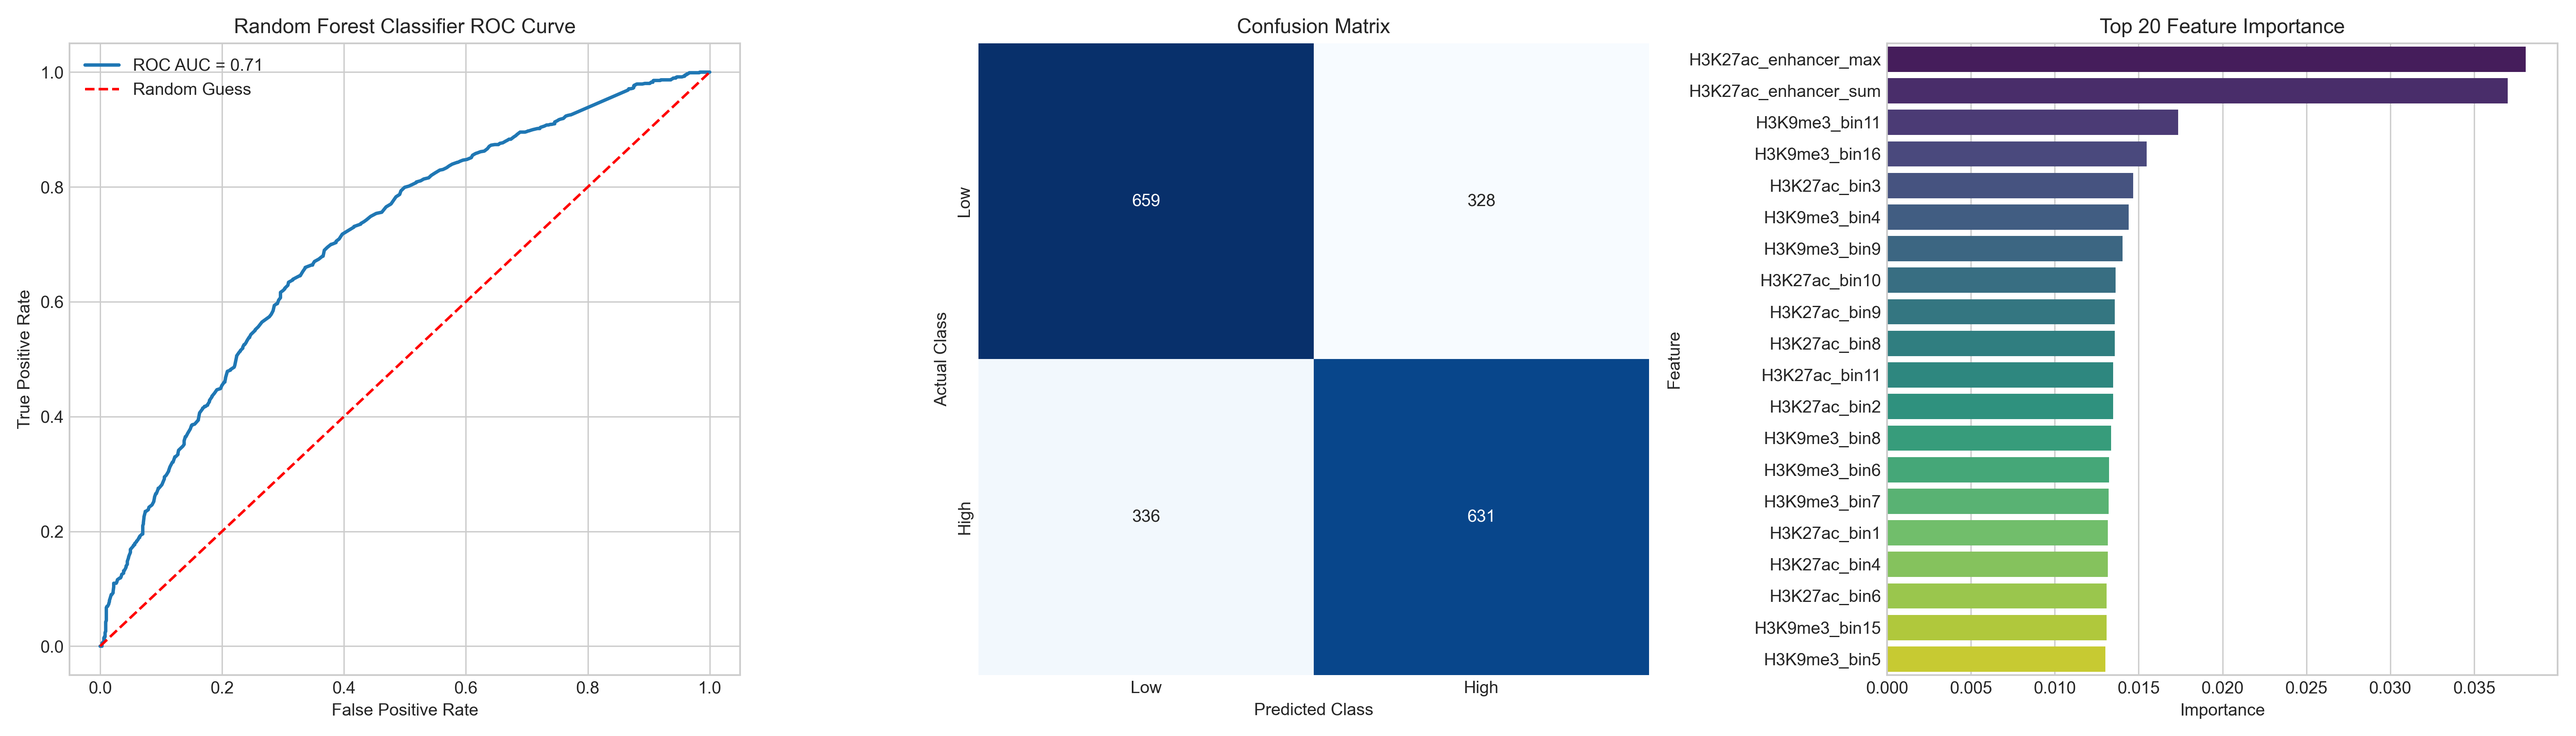
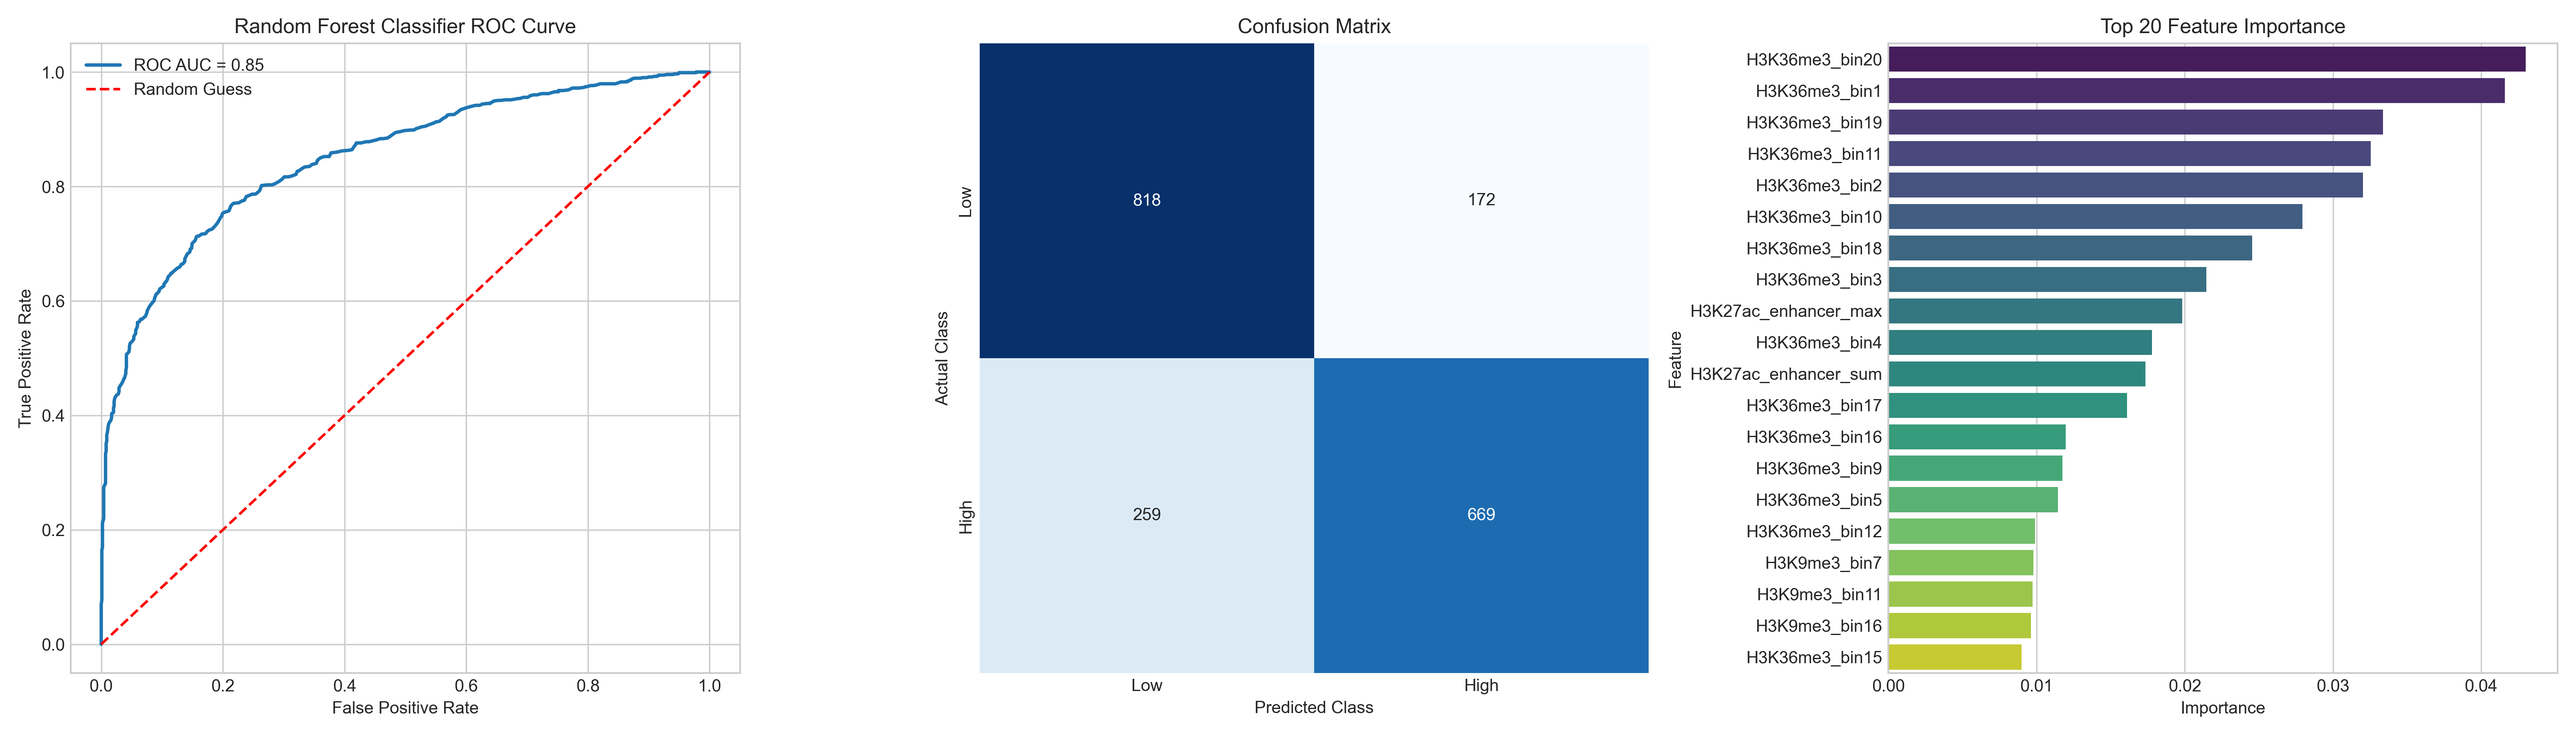
feat: expand to 6 histone marks (add H3K36me3, H3K4me1) — V3 results
- Add H3K36me3 and H3K4me1 to feature table and descriptions
- Update feature count: 82 → 122 (120 promoter bins + 2 enhancer)
- Update regression results (best R² -0.010 → 0.100, Pearson r 0.107 → 0.320)
- Update binary classification results (best ROC AUC 0.707 → 0.852)
- Update four-class results (best accuracy 0.331 → 0.406)
- Replace all 12 result images with V3 outputs
- Update conclusion callout with before/after comparison table

diff --git a/index.html b/index.html
@@ -12,8 +12,10 @@
       <p class="eyebrow">Final Project</p>
       <h1>Predicting K562 Gene Expression from Histone Modification Features</h1>
       <p class="lead">
-        This project tested whether promoter and enhancer histone signals can explain gene expression in K562 cells.
-        We first modeled continuous TPM values, found weak predictive power, then reframed the problem as binary and four-class classification.
+        This project tested whether promoter and enhancer histone signals can explain gene expression in K562 cells,
+        using six histone marks: H3K4me3, H3K27ac, H3K27me3, H3K9me3, H3K36me3, and H3K4me1.
+        We modeled continuous TPM values, found limited regression performance, then reframed the problem
+        as binary and four-class classification — achieving a ROC AUC above 0.85 in the binary task.
       </p>
     </div>
   </header>
@@ -89,13 +91,20 @@
               <td>Tri-methylation of histone H3 lysine 9; marks constitutive heterochromatin and permanently silenced regions</td>
               <td>Promoter bins (TSS ±2 kb)</td>
             </tr>
+            <tr>
+              <td><code>H3K36me3</code></td>
+              <td>Active</td>
+              <td>Tri-methylation of histone H3 lysine 36; deposited co-transcriptionally across gene bodies; among the strongest quantitative predictors of expression level</td>
+              <td>Promoter bins (TSS ±2 kb)</td>
+            </tr>
+            <tr>
+              <td><code>H3K4me1</code></td>
+              <td>Active / Poised</td>
+              <td>Mono-methylation of histone H3 lysine 4; marks active and poised enhancers; enriched at distal regulatory elements rather than core promoters</td>
+              <td>Promoter bins (TSS ±2 kb)</td>
+            </tr>
           </tbody>
         </table>
-        <p style="margin-top:0.75rem;color:var(--muted);font-size:0.93rem;">
-          Note: H3K36me3, a gene-body elongation mark that is among the strongest predictors of expression
-          level in the literature, was not available in our dataset. Its absence is a likely contributor
-          to the limited regression performance observed (see Conclusion).
-        </p>
       </div>
     </section>
 
@@ -114,7 +123,7 @@
         </article>
         <article class="card">
           <h3>Feature Set</h3>
-          <p>82 total features: 80 promoter-bin features plus 2 enhancer H3K27ac summary features.</p>
+          <p>122 total features: 120 promoter-bin features plus 2 enhancer H3K27ac summary features.</p>
         </article>
       </div>
 
@@ -130,8 +139,8 @@
           <tbody>
             <tr>
               <td>Promoter bins</td>
-              <td>TSS ±2 kb, split into 20 bins, 4 marks per bin</td>
-              <td>80</td>
+              <td>TSS ±2 kb, split into 20 bins, 6 marks per bin</td>
+              <td>120</td>
             </tr>
             <tr>
               <td>Enhancer summaries</td>
@@ -141,7 +150,7 @@
             <tr>
               <td>Total</td>
               <td>All numerical predictors used in modeling</td>
-              <td>82</td>
+              <td>122</td>
             </tr>
           </tbody>
         </table>
@@ -187,8 +196,10 @@
     <section id="regression" class="section">
       <h2>TPM Regression Results</h2>
       <p class="section-intro">
-        Regression was run on the protein-coding, TPM &gt; 0.1 subset. The goal was to predict continuous
-        <code>log2(TPM + 1)</code>. All four models performed poorly, with near-zero or negative explanatory power.
+        Regression was run on the protein-coding, TPM &gt; 0.1 subset (11,436 genes, 122 features).
+        The goal was to predict continuous <code>log2(TPM + 1)</code>.
+        Adding H3K36me3 and H3K4me1 improved R² and Pearson r substantially compared to the four-mark dataset,
+        though performance remains modest — consistent with the difficulty of fine-grained TPM prediction from promoter bins alone.
       </p>
 
       <div class="card table-card">
@@ -205,31 +216,31 @@
           <tbody>
             <tr>
               <td>Ridge Regression</td>
-              <td>-0.0016</td>
-              <td>0.0746</td>
-              <td>1.7722</td>
-              <td>1.3910</td>
+              <td>0.0912</td>
+              <td>0.3047</td>
+              <td>1.6446</td>
+              <td>1.2998</td>
             </tr>
             <tr>
               <td>Random Forest</td>
-              <td>-0.0098</td>
-              <td>0.0867</td>
-              <td>1.7794</td>
-              <td>1.3986</td>
+              <td>0.1005</td>
+              <td>0.3196</td>
+              <td>1.6361</td>
+              <td>1.2984</td>
             </tr>
             <tr>
               <td>HistGradientBoosting</td>
-              <td>-0.0241</td>
-              <td>0.0822</td>
-              <td>1.7920</td>
-              <td>1.4086</td>
+              <td>0.0885</td>
+              <td>0.3106</td>
+              <td>1.6470</td>
+              <td>1.3019</td>
             </tr>
             <tr>
               <td>MLP</td>
-              <td>-0.0167</td>
-              <td>0.1066</td>
-              <td>1.7855</td>
-              <td>1.3894</td>
+              <td>0.0585</td>
+              <td>0.2773</td>
+              <td>1.6739</td>
+              <td>1.3159</td>
             </tr>
           </tbody>
         </table>
@@ -279,7 +290,7 @@
           <ul>
             <li>Some features have signal, but it is weak.</li>
             <li>The enhancer summary carried more signal than at least some promoter bins.</li>
-            <li>The full 82-feature set is not strong enough for accurate TPM regression.</li>
+            <li>Even the expanded 122-feature set is not sufficient for accurate fine-grained TPM regression.</li>
           </ul>
         </article>
       </div>
@@ -312,35 +323,35 @@
           <tbody>
             <tr>
               <td>Logistic Regression</td>
-              <td>0.6459</td>
-              <td>0.6446</td>
-              <td>0.6339</td>
-              <td>0.6392</td>
-              <td>0.6796</td>
+              <td>0.7529</td>
+              <td>0.7728</td>
+              <td>0.6929</td>
+              <td>0.7307</td>
+              <td>0.8302</td>
             </tr>
             <tr>
               <td>Random Forest</td>
-              <td>0.6602</td>
-              <td>0.6580</td>
-              <td>0.6525</td>
-              <td>0.6552</td>
-              <td>0.7065</td>
+              <td>0.7753</td>
+              <td>0.7955</td>
+              <td>0.7209</td>
+              <td>0.7564</td>
+              <td>0.8503</td>
             </tr>
             <tr>
               <td>HistGradientBoosting</td>
-              <td>0.6315</td>
-              <td>0.6259</td>
-              <td>0.6350</td>
-              <td>0.6304</td>
-              <td>0.6806</td>
+              <td>0.7722</td>
+              <td>0.8042</td>
+              <td>0.6994</td>
+              <td>0.7481</td>
+              <td>0.8515</td>
             </tr>
             <tr>
               <td>MLP</td>
-              <td>0.6505</td>
-              <td>0.6617</td>
-              <td>0.6008</td>
-              <td>0.6298</td>
-              <td>0.6852</td>
+              <td>0.7643</td>
+              <td>0.8091</td>
+              <td>0.6713</td>
+              <td>0.7338</td>
+              <td>0.8400</td>
             </tr>
           </tbody>
         </table>
@@ -368,9 +379,10 @@
       <div class="card callout">
         <h3>Interpretation</h3>
         <p>
-          Binary classification clearly performed better than continuous regression.
-          The best model, Random Forest, reached a ROC AUC of 0.7065, showing that the histone features contain enough signal
-          to separate broad expression states even when they cannot predict exact TPM values accurately.
+          Binary classification performed substantially better than continuous regression.
+          With the expanded six-mark feature set, the best models (Random Forest and HistGradientBoosting)
+          reached a ROC AUC above 0.85 — a meaningful jump from the four-mark results —
+          confirming that H3K36me3 and H3K4me1 add discriminative power for separating broad expression states.
         </p>
       </div>
     </section>
@@ -396,31 +408,31 @@
           <tbody>
             <tr>
               <td>Logistic Regression</td>
-              <td>0.3314</td>
-              <td>0.3150</td>
-              <td>0.3315</td>
-              <td>0.3036</td>
+              <td>0.3837</td>
+              <td>0.3744</td>
+              <td>0.3836</td>
+              <td>0.3741</td>
             </tr>
             <tr>
               <td>Random Forest</td>
-              <td>0.3309</td>
-              <td>0.3188</td>
-              <td>0.3309</td>
-              <td>0.3169</td>
+              <td>0.4063</td>
+              <td>0.3993</td>
+              <td>0.4063</td>
+              <td>0.3994</td>
             </tr>
             <tr>
               <td>HistGradientBoosting</td>
-              <td>0.3219</td>
-              <td>0.3119</td>
-              <td>0.3219</td>
-              <td>0.3066</td>
+              <td>0.3829</td>
+              <td>0.3775</td>
+              <td>0.3828</td>
+              <td>0.3766</td>
             </tr>
             <tr>
               <td>MLP</td>
-              <td>0.3206</td>
-              <td>0.3102</td>
-              <td>0.3206</td>
-              <td>0.3046</td>
+              <td>0.3912</td>
+              <td>0.3793</td>
+              <td>0.3912</td>
+              <td>0.3797</td>
             </tr>
           </tbody>
         </table>
@@ -448,8 +460,10 @@
       <div class="card callout">
         <h3>Interpretation</h3>
         <p>
-          Four-class classification was harder. Accuracy stayed around 0.32 to 0.33, only modestly above random guessing for four classes.
-          This means the current feature set can separate broad expression states better than it can distinguish fine-grained expression levels.
+          Four-class classification was harder. Accuracy ranged from 0.38 to 0.41 — an improvement over the four-mark
+          results (~0.32–0.33) but still modest above the random-chance baseline of 0.25.
+          This confirms that while the expanded feature set adds signal, the current promoter-bin representation
+          is not rich enough for fine-grained expression ranking across all four quartiles.
         </p>
       </div>
     </section>
@@ -460,82 +474,79 @@
         <article class="card">
           <h3>Main Findings</h3>
           <ul>
-            <li>Continuous TPM regression performed poorly for all tested models.</li>
-            <li>Some histone features, especially enhancer-related H3K27ac summaries, still contained usable signal.</li>
-            <li>Binary classification produced the clearest improvement, with Random Forest giving the strongest result.</li>
-            <li>Four-class classification remained difficult, suggesting the features are not rich enough for fine expression ranking.</li>
+            <li>Adding H3K36me3 and H3K4me1 substantially improved all tasks relative to the four-mark baseline.</li>
+            <li>Continuous TPM regression remained modest (best R² ≈ 0.10, Pearson r ≈ 0.32) even with six marks.</li>
+            <li>Binary classification benefited most, with ROC AUC rising from ~0.71 to ~0.85.</li>
+            <li>Four-class accuracy improved from ~0.33 to ~0.41, but remains limited for fine-grained expression ranking.</li>
           </ul>
         </article>
         <article class="card">
           <h3>What We Learned</h3>
           <ul>
-            <li>Model choice mattered less than feature quality.</li>
-            <li>Reframing the biological question changed the outcome substantially.</li>
-            <li>For this project, chromatin features were more useful for separating broad expression states than predicting exact TPM.</li>
-            <li>Future improvements should focus on stronger feature engineering, such as gene-body marks, chromatin accessibility, or richer enhancer summaries.</li>
+            <li>Feature quality dominated model choice — adding two marks mattered more than tuning any single algorithm.</li>
+            <li>H3K36me3, a gene-body elongation mark, appears to drive the largest share of the performance gain.</li>
+            <li>Reframing as binary classification yields the most interpretable results from the current feature set.</li>
+            <li>Further gains likely require gene-body coverage, chromatin accessibility (ATAC-seq), or richer long-range enhancer features.</li>
           </ul>
         </article>
       </div>
 
       <div class="card callout" style="margin-top:1.25rem;">
-        <h3>Where Does the Binary Classification Signal Come From?</h3>
+        <h3>Impact of Adding H3K36me3 and H3K4me1</h3>
         <p>
-          To probe how much of the binary classification signal was driven by distinguishing
-          completely silent genes from active ones, we re-ran all four classifiers after restricting
-          the dataset to genes with <code>TPM &gt; 0.1</code> — the same filtered set used in the
-          regression experiments.
-        </p>
-        <p style="margin-top:0.75rem;">
-          ROC AUC dropped substantially across all models, falling close to random-chance levels:
+          The V3 dataset expanded the feature set from four marks to six by adding H3K36me3 (a
+          gene-body elongation mark) and H3K4me1 (an enhancer-associated mark). Across all tasks,
+          performance improved noticeably:
         </p>
 
         <div class="table-card" style="margin-top:0.75rem;">
           <table>
             <thead>
               <tr>
-                <th>Model</th>
-                <th>Full gene set AUC<br><small>(includes silent genes)</small></th>
-                <th>TPM &gt; 0.1 only AUC</th>
-                <th>Drop</th>
+                <th>Task / Metric</th>
+                <th>4-mark (V2)</th>
+                <th>6-mark (V3)</th>
+                <th>Change</th>
               </tr>
             </thead>
             <tbody>
               <tr>
-                <td>Random Forest</td>
+                <td>Regression best R²</td>
+                <td>−0.0098</td>
+                <td>0.1005</td>
+                <td>+0.11</td>
+              </tr>
+              <tr>
+                <td>Regression best Pearson r</td>
+                <td>0.1066</td>
+                <td>0.3196</td>
+                <td>+0.21</td>
+              </tr>
+              <tr>
+                <td>Binary classification best ROC AUC</td>
                 <td>0.7065</td>
-                <td>0.5934</td>
-                <td>−0.113</td>
+                <td>0.8515</td>
+                <td>+0.145</td>
               </tr>
               <tr>
-                <td>MLP</td>
-                <td>0.6852</td>
-                <td>0.5674</td>
-                <td>−0.118</td>
-              </tr>
-              <tr>
-                <td>Logistic Regression</td>
-                <td>0.6796</td>
-                <td>0.5530</td>
-                <td>−0.127</td>
-              </tr>
-              <tr>
-                <td>HistGradientBoosting</td>
-                <td>0.6742</td>
-                <td>0.5735</td>
-                <td>−0.101</td>
+                <td>Four-class best accuracy</td>
+                <td>0.3309</td>
+                <td>0.4063</td>
+                <td>+0.075</td>
               </tr>
             </tbody>
           </table>
         </div>
 
         <p style="margin-top:0.9rem;">
-          This result indicates that most of the original binary classification signal reflected the
-          distinction between <em>silenced</em> genes (repressive marks such as H3K27me3 and H3K9me3
-          dominate) and <em>active</em> genes, rather than fine-grained differences in expression level
-          within the expressed population. Within expressed genes, the four-mark promoter-region feature
-          set provides only marginal predictive power — consistent with literature showing that
-          <strong>H3K36me3</strong>, a gene-body elongation mark absent from our features, accounts for
-          the majority of quantitative expression prediction power (Karlic et al., 2010, <em>PNAS</em>).
+          H3K36me3, which is deposited co-transcriptionally across actively transcribed gene bodies,
+          is among the strongest single-mark predictors of expression level in the literature
+          (Karlic et al., 2010, <em>PNAS</em>). Its inclusion here accounts for a large share of
+          the observed gain. H3K4me1 contributes additional signal by capturing enhancer activity
+          near promoters. Despite these improvements, fine-grained TPM regression and four-class
+          ranking remain difficult, suggesting that the promoter-bin representation still misses
+          regulatory information captured by gene-body coverage, chromatin accessibility, or
+          richer long-range enhancer interactions.
         </p>
       </div>
     </section>
